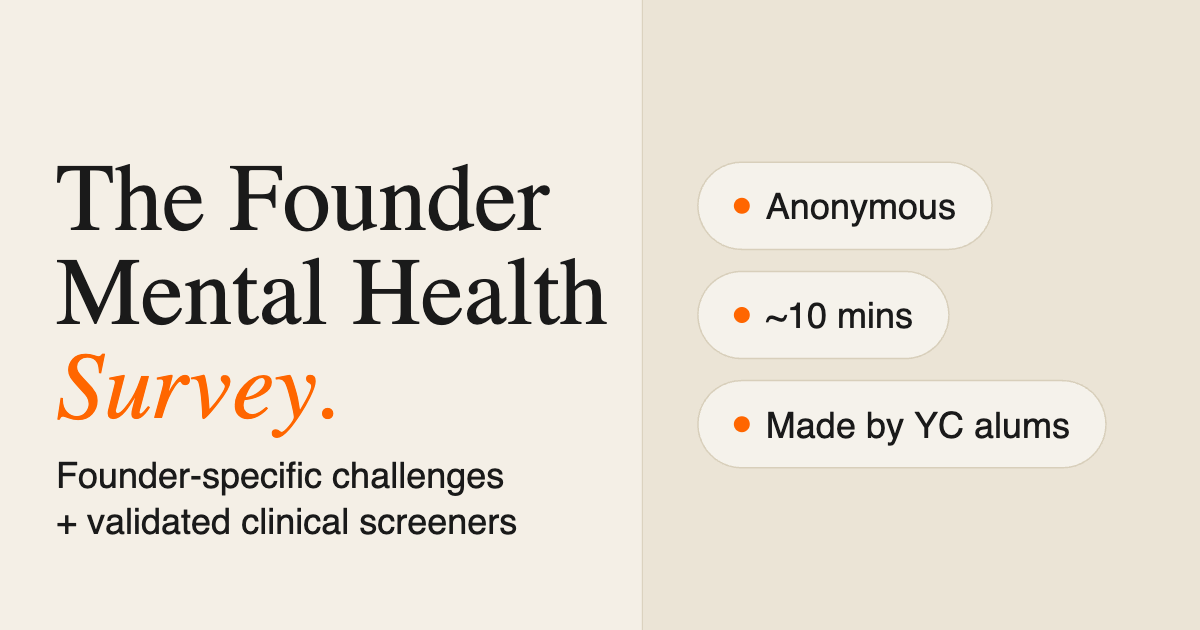
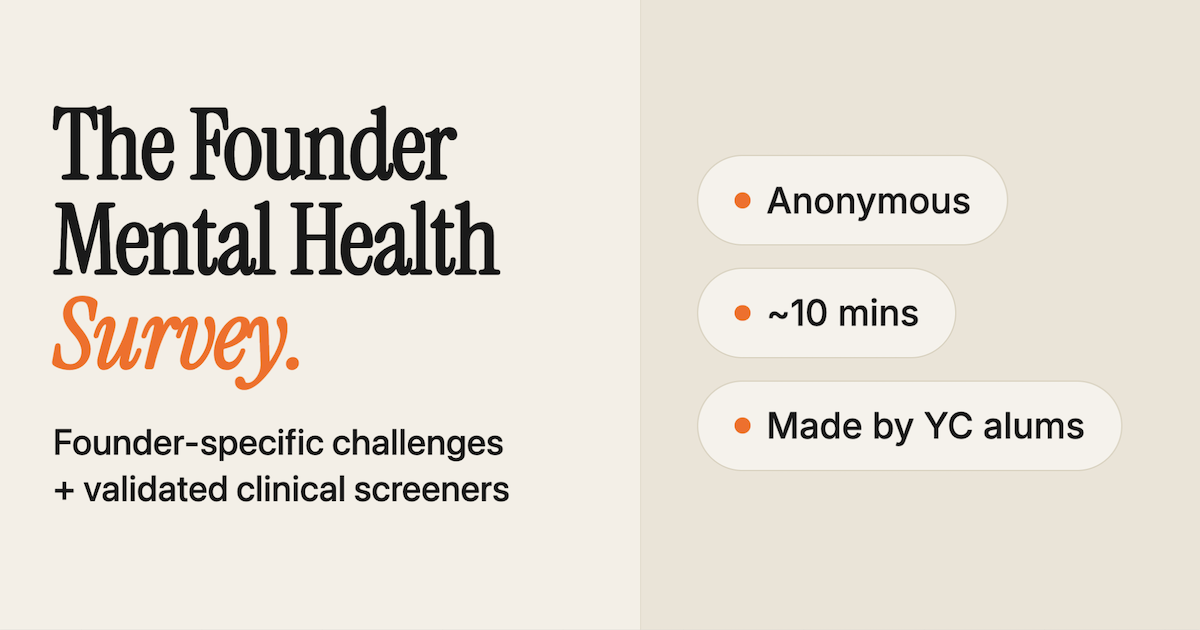
Refresh share image and tighten share description
- Swap app/opengraph-image.png for the v2 1200×630 card.
- Description (used by <meta name="description">, og:description,
  and twitter:description): "Anonymous. ~10 min. Startup-specific
  stressors plus clinically validated measures. Made by YC founders,
  for YC founders."

Tightens the previous copy: drops the "depression, anxiety, burnout"
enumeration in favor of "clinically validated measures", swaps
"Founder-specific" for "Startup-specific" to match how respondents
hear it, and trims the trailing "Compare your results to your peers"
since percentile comparison only fires when the cohort flag is on.

diff --git a/app/layout.tsx b/app/layout.tsx
@@ -43,7 +43,7 @@ const jetBrainsMono = JetBrains_Mono({
 // served from /public so browsers that prefer a smaller or larger
 // favicon can pick the right one.
 const SHARE_DESCRIPTION =
-  "Anonymous. ~10 min. Founder-specific stressors plus clinically validated depression, anxiety, burnout measures. By YC founders, for YC founders. Compare your results to your peers.";
+  "Anonymous. ~10 min. Startup-specific stressors plus clinically validated measures. Made by YC founders, for YC founders.";
 
 export const metadata: Metadata = {
   title: "The Founder Mental Health Survey",